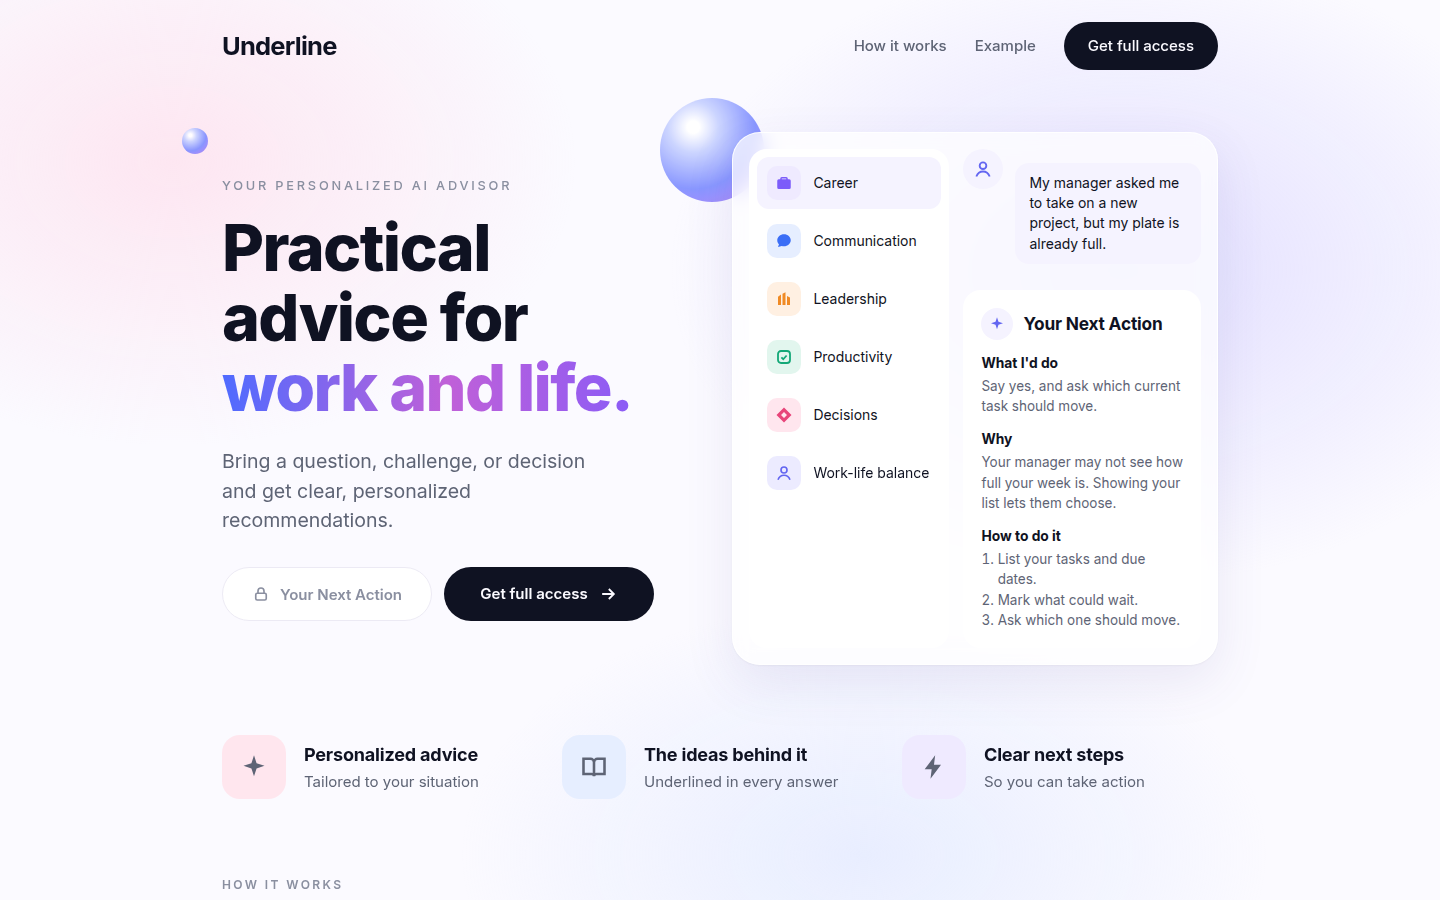
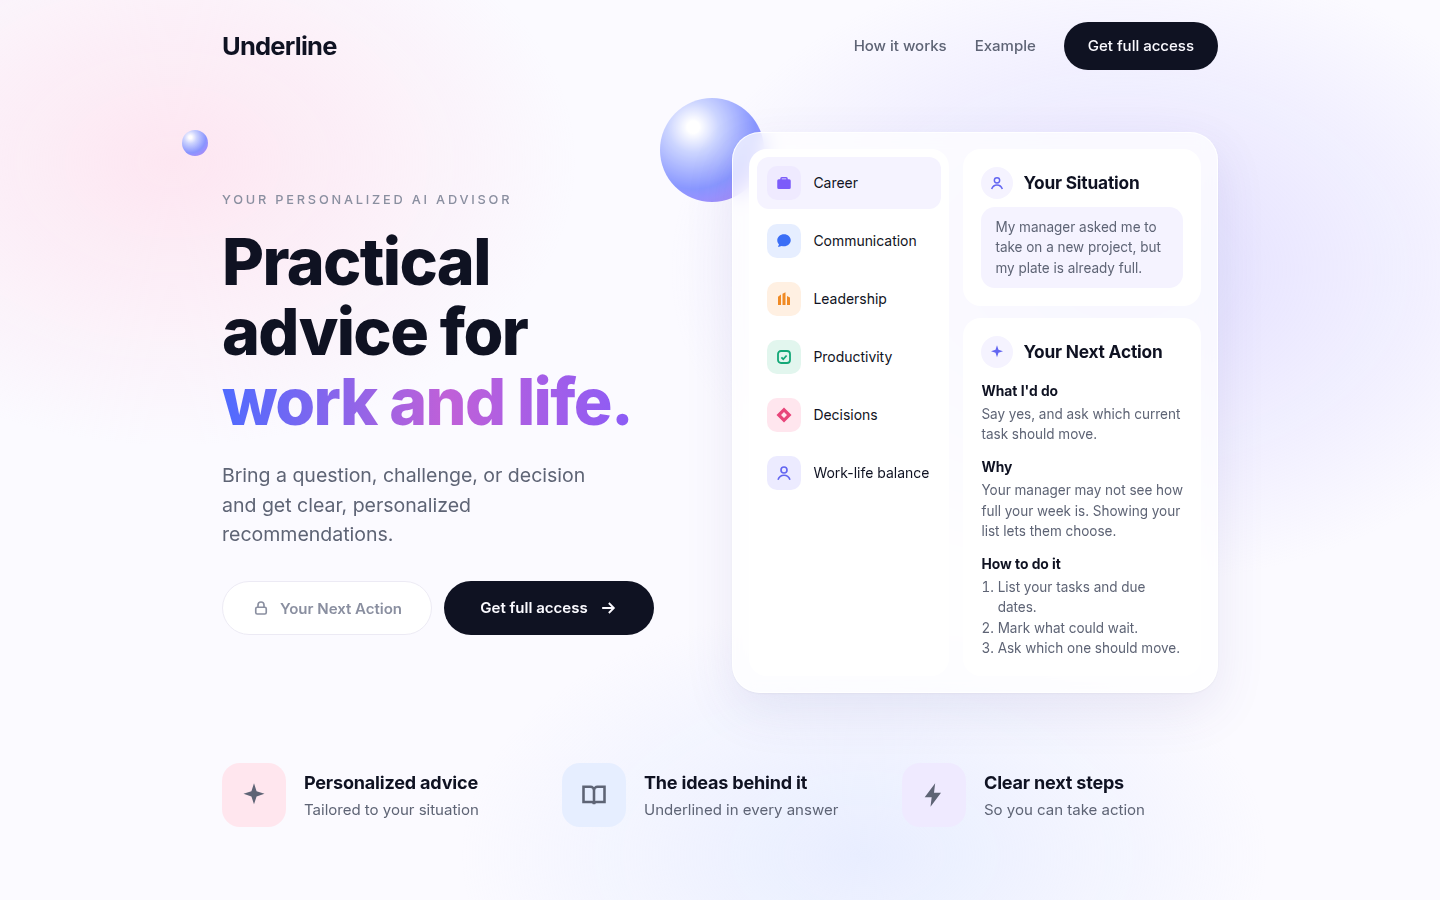
Add Your Situation title to the hero preview

diff --git a/index.html b/index.html
@@ -71,6 +71,8 @@ nav.top{display:flex;align-items:center;justify-content:space-between;gap:16px;p
 .ask{display:flex;align-items:flex-start;gap:12px}
 .avatar{flex:none;width:40px;height:40px;border-radius:50%;background:var(--tint);display:grid;place-items:center;color:#6366F1}
 .avatar svg{width:20px;height:20px}
+.sit .spark svg{width:16px;height:16px}
+.sit .anshead{margin-bottom:8px}
 .bubble{background:var(--tint);border-radius:14px;padding:10px 14px;font-size:.93rem;line-height:1.45}
 .ans{background:var(--card);border-radius:18px;padding:18px}
 .anshead{display:flex;align-items:center;gap:10px;margin-bottom:10px}
@@ -177,7 +179,7 @@ footer a svg{width:15px;height:15px}
         <li><span class="ic c6"><svg viewBox="0 0 24 24" fill="none" stroke="currentColor" stroke-width="2.2"><circle cx="12" cy="8" r="4"/><path d="M4 21c1.5-4 4.5-6 8-6s6.5 2 8 6"/></svg></span>Work-life balance</li>
       </ul>
       <div class="chat">
-        <div class="ask"><span class="avatar"><svg viewBox="0 0 24 24" fill="none" stroke="currentColor" stroke-width="2.2"><circle cx="12" cy="8" r="4"/><path d="M4 21c1.5-4 4.5-6 8-6s6.5 2 8 6"/></svg></span><p class="bubble">My manager asked me to take on a new project, but my plate is already full.</p></div>
+        <div class="ans sit"><div class="anshead"><span class="spark"><svg viewBox="0 0 24 24" fill="none" stroke="currentColor" stroke-width="2.2"><circle cx="12" cy="8" r="4"/><path d="M4 21c1.5-4 4.5-6 8-6s6.5 2 8 6"/></svg></span><b>Your Situation</b></div><p class="bubble">My manager asked me to take on a new project, but my plate is already full.</p></div>
         <div class="ans">
           <div class="anshead"><span class="spark"><svg viewBox="0 0 24 24" width="16" height="16" fill="currentColor"><path d="M12 2l2.2 6.8L21 11l-6.8 2.2L12 20l-2.2-6.8L3 11l6.8-2.2L12 2Z"/></svg></span><b>Your Next Action</b></div>
           <h4>What I'd do</h4>
